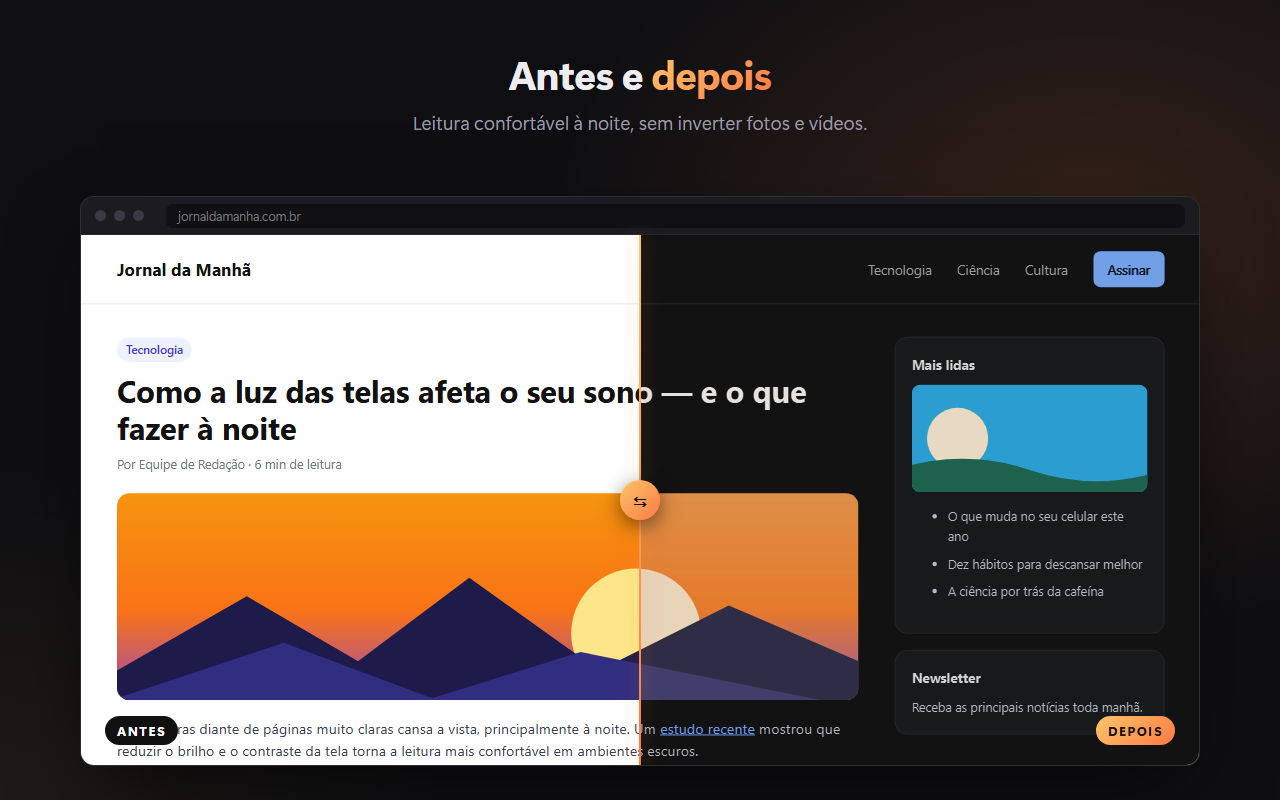
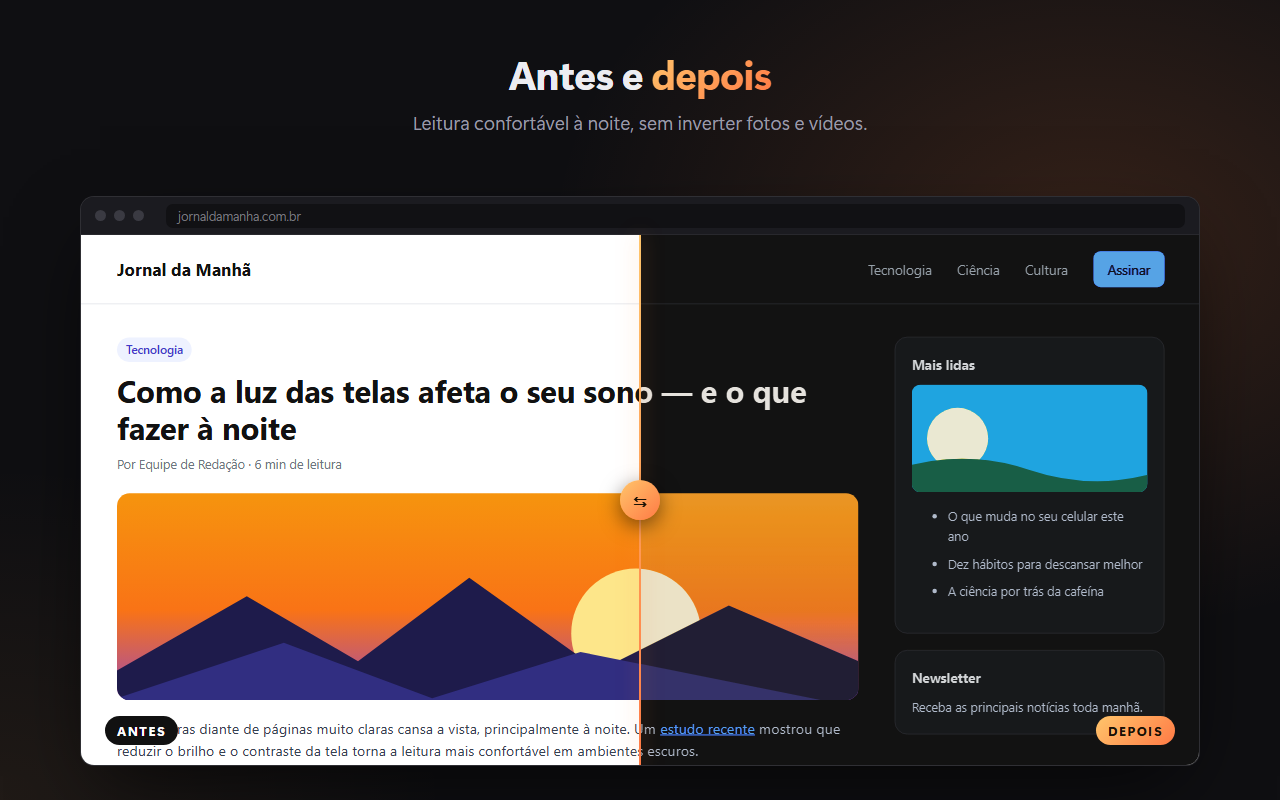
Preserva melhor as cores das fotos
- Fotos em background-image definidas no CSS do site e imagens dentro de
  Shadow DOM aberto deixam de ficar invertidas: uma varredura em tempo
  ocioso (requestIdleCallback), só nos elementos novos e só com o filtro
  ativo, marca elementos grandes com foto de fundo e injeta as regras de
  mídia em cada shadow root. Ícones pequenos e texturas continuam
  invertendo junto com a página.
- Compensação de saturação e contraste: a página recebe saturate(1.6) e as
  mídias dessaturam antes de reverter, evitando o corte de cores vivas, e
  desfazem o contraste reduzido. Erro médio em relação à foto original
  caiu de 15,3 para 8,6 (de 255); em tons de pele, de ~7 para ~2.
- Atualiza imagens da loja, LISTING.md e README.

Changed region(s): [[0.5, 0.5938, 0.6875, 0.7188], [0.8438, 0.3125, 0.9375, 0.375], [0.5312, 0.9062, 0.5938, 0.9375]]

diff --git a/src/content.js b/src/content.js
@@ -2,8 +2,9 @@
 //
 // Em vez de ler e reescrever o CSS do site (o que torna o Dark Reader pesado),
 // escurecemos a página com UM filtro no <html>, composto pela GPU. Mídias
-// recebem o filtro inverso para manter as cores reais. Não há varredura de
-// folhas de estilo nem MutationObserver na árvore inteira.
+// recebem o filtro inverso para manter as cores reais. Não lemos folhas de
+// estilo; a única varredura do DOM (fotos em background-image e Shadow DOM)
+// roda em tempo ocioso, só nos elementos novos e só com o filtro ativo.
 (() => {
   // Após atualizar/recarregar a extensão, a cópia antiga fica órfã (sem acesso
   // a chrome.*) mas o window do mundo isolado é o mesmo: só desistimos se a
@@ -28,28 +29,43 @@
     .map((s) => `[style*="${s}"]`);
   const EMBEDS = ['youtube.com', 'youtube-nocookie.com', 'player.vimeo.com', 'dailymotion.com', 'player.twitch.tv', 'open.spotify.com']
     .map((s) => `iframe[src*="${s}"]`);
+  // Elementos grandes com foto em background-image (marcados pela varredura).
+  const BG_MARK = 'data-dw-bg';
+  const BG = [...BG_INLINE, `[${BG_MARK}]`];
   // SVGs via <img> costumam ser ícones/logos: deixamos inverter junto com o texto.
-  const MEDIA = ['img:not([src*=".svg"])', 'picture', 'video', 'embed', 'object', 'svg image', ...BG_INLINE, ...EMBEDS].join(',');
+  const MEDIA = ['img:not([src*=".svg"])', 'picture', 'video', 'embed', 'object', 'svg image', ...BG, ...EMBEDS].join(',');
   // Mídia dentro de mídia já revertida seria invertida duas vezes.
-  const NESTED = ['picture img', ...BG_INLINE.map((s) => `${s} :is(img,picture,video)`)].join(',');
+  const NESTED = ['picture img', ...BG.map((s) => `${s} :is(img,picture,video,embed,object,iframe,${BG.join(',')})`)].join(',');
+
+  // O filtro corta valores fora de [0,1] entre uma etapa e outra, o que
+  // desbota cores vivas nas mídias. A página recebe saturate(SAT) e as mídias
+  // dessaturam antes de reverter, ficando dentro da faixa; elas também
+  // desfazem o contraste reduzido (pensado para o texto, não para fotos).
+  const SAT = 1.6;
+  const mediaFilter = (s) => `contrast(${100 / s.contrast}) saturate(${1 / SAT}) ${REVERT}`;
+  const mediaRules = (s) => `${MEDIA}{filter:${mediaFilter(s)}!important}
+${NESTED}{filter:none!important}
+:fullscreen,:fullscreen *{filter:none!important}`;
 
   // Elementos na top layer (modais, popovers, tela cheia) não herdam o filtro
   // do <html>: modais/popovers recebem o mesmo filtro e a tela cheia fica original.
   const css = (s) => {
-    const filter = `${REVERT} brightness(${s.brightness / 100}) contrast(${s.contrast / 100}) sepia(${s.sepia / 100}) grayscale(${s.grayscale / 100})`;
+    const filter = `${REVERT} saturate(${SAT}) brightness(${s.brightness / 100}) contrast(${s.contrast / 100}) sepia(${s.sepia / 100}) grayscale(${s.grayscale / 100})`;
     return `@media screen{
 html{filter:${filter}!important;scrollbar-color:#3b3b42 #141417!important}
 :where(html){background-color:#fff}
 :where(body){scrollbar-color:auto}
-${MEDIA}{filter:${REVERT}!important}
-${NESTED}{filter:none!important}
+${mediaRules(s)}
 dialog:modal:not(:fullscreen),[popover]:popover-open:not(:fullscreen){filter:${filter}!important}
-:fullscreen,:fullscreen *,::backdrop{filter:none!important}
+::backdrop{filter:none!important}
 }`;
   };
 
   const style = document.createElement('style');
   style.id = 'dark-wick';
+  // Folhas de estilo da página não alcançam Shadow DOM: cada shadow root
+  // aberto recebe um <style> só com as regras de mídia.
+  const shadowStyles = new Set();
 
   let settings = { ...DEFAULTS };
   let mode = 'auto';
@@ -58,9 +74,19 @@ dialog:modal:not(:fullscreen),[popover]:popover-open:not(:fullscreen){filter:${f
   const isActive = () => settings.enabled && mode !== 'off' && !(mode === 'auto' && nativeDark);
 
   function render() {
-    const text = isActive() ? css(settings) : '';
+    const active = isActive();
+    const text = active ? css(settings) : '';
     if (style.textContent !== text) style.textContent = text;
     if (!style.isConnected && document.documentElement) document.documentElement.appendChild(style);
+
+    const shadowText = active ? `@media screen{${mediaRules(settings)}}` : '';
+    for (const ref of shadowStyles) {
+      const s = ref.deref();
+      if (!s) shadowStyles.delete(ref);
+      else if (s.textContent !== shadowText) s.textContent = shadowText;
+    }
+
+    if (active !== scanning) setScanning(active);
   }
 
   async function load() {
@@ -165,18 +191,81 @@ dialog:modal:not(:fullscreen),[popover]:popover-open:not(:fullscreen){filter:${f
     detectTimer = setTimeout(detect, delay);
   }
 
+  // ---------- fotos em background-image e Shadow DOM ----------
+  // Fundos definidos no CSS do site não são selecionáveis por CSS: marcamos os
+  // elementos grandes com foto de fundo. Ícones/sprites (pequenos) e texturas
+  // repetidas ficam de fora e invertem junto com a página, como o texto.
+  // Roda em requestIdleCallback, em fatias, e só com o filtro ativo.
+
+  const BG_MIN = 48;
+  const seenShadows = new WeakSet();
+  const jobs = [];
+  let idleId = 0;
+  let scanning = false;
+
+  function inspect(el) {
+    if (!el.isConnected) return;
+    const sr = el.shadowRoot;
+    if (sr && !seenShadows.has(sr)) adoptShadow(sr);
+    if (el.hasAttribute(BG_MARK) || el === document.body) return;
+    const cs = getComputedStyle(el);
+    if (!cs.backgroundImage.includes('url(')) return;
+    if (cs.backgroundSize === 'auto' && cs.backgroundRepeat !== 'no-repeat') return; // textura
+    const r = el.getBoundingClientRect();
+    if (r.width < BG_MIN || r.height < BG_MIN) return;
+    if (r.width >= innerWidth * 0.9 && r.height > innerHeight * 1.5) return; // fundo da página inteira
+    el.setAttribute(BG_MARK, '');
+  }
+
+  function adoptShadow(sr) {
+    seenShadows.add(sr);
+    const s = document.createElement('style');
+    s.textContent = isActive() ? `@media screen{${mediaRules(settings)}}` : '';
+    sr.appendChild(s);
+    shadowStyles.add(new WeakRef(s));
+    observer.observe(sr, { childList: true, subtree: true });
+    enqueue(sr);
+  }
+
+  function enqueue(node) {
+    jobs.push({ list: node.querySelectorAll('*'), i: 0 });
+    if (node.nodeType === 1) jobs.push({ list: [node], i: 0 });
+    if (!idleId) idleId = requestIdleCallback(work, { timeout: 1500 });
+  }
+
+  function work(deadline) {
+    idleId = 0;
+    if (!scanning) return void (jobs.length = 0);
+    let budget = deadline.didTimeout ? 300 : Infinity; // aba em segundo plano: fatia fixa
+    while (jobs.length && budget-- > 0 && (deadline.didTimeout || deadline.timeRemaining() > 1)) {
+      const job = jobs[jobs.length - 1];
+      if (job.i >= job.list.length) jobs.pop();
+      else inspect(job.list[job.i++]);
+    }
+    if (jobs.length) idleId = requestIdleCallback(work, { timeout: 1500 });
+  }
+
+  // Também religa nosso <style> se um framework que hidrata o <html> removê-lo.
+  const observer = new MutationObserver((mutations) => {
+    if (!alive() || window.__darkWick !== alive) return observer.disconnect();
+    if (!style.isConnected) render();
+    if (!scanning) return;
+    for (const m of mutations) for (const n of m.addedNodes) if (n.nodeType === 1) enqueue(n);
+  });
+
+  function setScanning(on) {
+    scanning = on;
+    observer.observe(root, { childList: true, subtree: on });
+    if (on) enqueue(root);
+  }
+
+  const rescan = () => scanning && enqueue(root); // pega elementos que só ganharam tamanho/shadow depois
+
   // ---------- inicialização ----------
 
+  observer.observe(root, { childList: true });
   render(); // otimista: aplica já no document_start, antes do primeiro paint
   load();
-
-  // Frameworks que hidratam o <html> podem remover nosso <style>: só observamos
-  // os filhos diretos do <html>, não a árvore inteira.
-  const keeper = new MutationObserver(() => {
-    if (!alive() || window.__darkWick !== alive) return keeper.disconnect();
-    if (!style.isConnected) render();
-  });
-  keeper.observe(root, { childList: true });
 
   if (document.readyState === 'loading') {
     document.addEventListener('DOMContentLoaded', () => scheduleDetect(), { once: true });
@@ -184,10 +273,11 @@ dialog:modal:not(:fullscreen),[popover]:popover-open:not(:fullscreen){filter:${f
   if (document.readyState !== 'complete') {
     addEventListener('load', () => {
       scheduleDetect();
-      setTimeout(() => scheduleDetect(), 2000);
+      rescan();
+      setTimeout(() => (scheduleDetect(), rescan()), 2000);
     }, { once: true });
   } else {
-    setTimeout(() => scheduleDetect(), 2000);
+    setTimeout(() => (scheduleDetect(), rescan()), 2000);
   }
   window.navigation?.addEventListener('navigatesuccess', () => scheduleDetect(800));
 

diff --git a/store/src/screenshot-1.html b/store/src/screenshot-1.html
@@ -7,7 +7,7 @@
     <h1>Qualquer site no escuro, <em>sem pesar</em> o navegador.</h1>
     <ul class="features">
       <li><i>1</i><span><b>Um único filtro, feito pela GPU</b>Não reescreve o CSS da página nem fica vigiando o site.</span></li>
-      <li><i>2</i><span><b>Fotos e vídeos não ficam invertidos</b>Imagens e players mantêm suas cores, só um pouco suavizadas.</span></li>
+      <li><i>2</i><span><b>Fotos e vídeos não ficam invertidos</b>Imagens e players mantêm praticamente as cores originais.</span></li>
       <li><i>3</i><span><b>Respeita sites já escuros</b>No modo Auto, sites com tema escuro ficam intactos.</span></li>
     </ul>
   </div>

diff --git a/README.md b/README.md
@@ -21,17 +21,19 @@ O Dark Wick faz o contrário:
 |---|---|---|
 | Como escurece | Reescreve o CSS do site | Um único `filter` no `<html>`, executado pela GPU |
 | Leitura de CSS | Todas as folhas, inclusive cross-origin via fetch | Nenhuma |
-| Observação do DOM | Árvore inteira, contínua | Só os filhos diretos do `<html>` (para religar o `<style>` se um framework removê-lo) |
+| Varredura do DOM | Árvore inteira, reescrevendo estilos | Só procura fotos em `background-image` e Shadow DOM, em tempo ocioso (`requestIdleCallback`), nos elementos novos e só com o filtro ativo |
 | Sites desligados | O script ainda roda | Nenhum código injetado (registro dinâmico com `excludeMatches`) |
 
-- **Mídia preservada:** imagens, vídeos, `<picture>`, embeds de vídeo e fundos inline recebem o filtro inverso para manter as cores reais.
+- **Mídia preservada:** imagens, vídeos, `<picture>`, embeds de vídeo, fotos de fundo (inline ou do CSS, se o elemento for grande) e imagens dentro de Shadow DOM aberto recebem o filtro inverso.
+- **Fidelidade de cor:** o filtro corta valores fora de [0,1] entre etapas, o que desbotava cores vivas. A página recebe `saturate(1.6)` e as mídias dessaturam antes de reverter, ficando dentro da faixa. As mídias também desfazem o contraste reduzido, que é pensado para o texto. Em tons de pele, o erro em relação ao original caiu de ~7 para ~2 (de 255).
 - **Sites já escuros:** no modo **Auto**, a página é amostrada em 6 pontos (no DOMContentLoaded, no load, 2 s depois e em navegações de SPA). Se ela já for escura, o filtro sai. O resultado fica em cache por site, para evitar o flash claro na próxima visita.
 - **Top layer:** modais (`dialog`) e popovers recebem o mesmo filtro; elementos em tela cheia (vídeos) ficam com as cores originais.
 
 ## Limitações conhecidas (inerentes ao filtro)
 
-- Cores muito saturadas em imagens perdem um pouco de saturação: o `hue-rotate` corta valores fora da gama de cores. Fotos comuns quase não mudam.
-- Imagens de fundo definidas em CSS (não inline) e `<canvas>` são invertidas junto com a página. Para canvas, isso costuma ser bom (gráficos, Google Docs, mapas), mas é ruim em jogos.
+- Cores extremamente vivas (amarelo ou vermelho puros) ainda saem um pouco alteradas nas imagens. Fotos comuns ficam praticamente iguais.
+- Ícones pequenos e texturas de fundo invertem junto com a página (de propósito). Elementos de fundo que só ganham a foto depois, por troca de classe, podem escapar da varredura.
+- `<canvas>` e Shadow DOM fechado são invertidos junto com a página. Para canvas, isso costuma ser bom (gráficos, Google Docs, mapas), mas é ruim em jogos.
 - Logos PNG pretos com fundo transparente continuam pretos.
 
 Se um site ficar ruim, use **Nunca** para ele, ou ajuste brilho/contraste com **Só neste site**.

diff --git a/store/LISTING.md b/store/LISTING.md
@@ -48,7 +48,7 @@ PRIVACIDADE
 A Dark Wick não coleta nem envia nenhum dado. Ela não faz requisições de rede, não usa analytics e não exibe anúncios. Suas preferências ficam guardadas no próprio navegador.
 
 LIMITAÇÕES
-Como a extensão usa um filtro de cor, cores muito vivas em imagens podem ficar levemente suavizadas, e imagens de fundo definidas no CSS do site são escurecidas junto com a página. Se algum site não ficar bom, marque "Nunca" para ele.
+Como a extensão usa um filtro de cor, cores extremamente vivas em imagens (como amarelo ou vermelho puros) podem ficar levemente alteradas. Ícones pequenos e texturas de fundo são escurecidos junto com a página. Se algum site não ficar bom, marque "Nunca" para ele.
 ```
 
 **Categoria:** Acessibilidade
